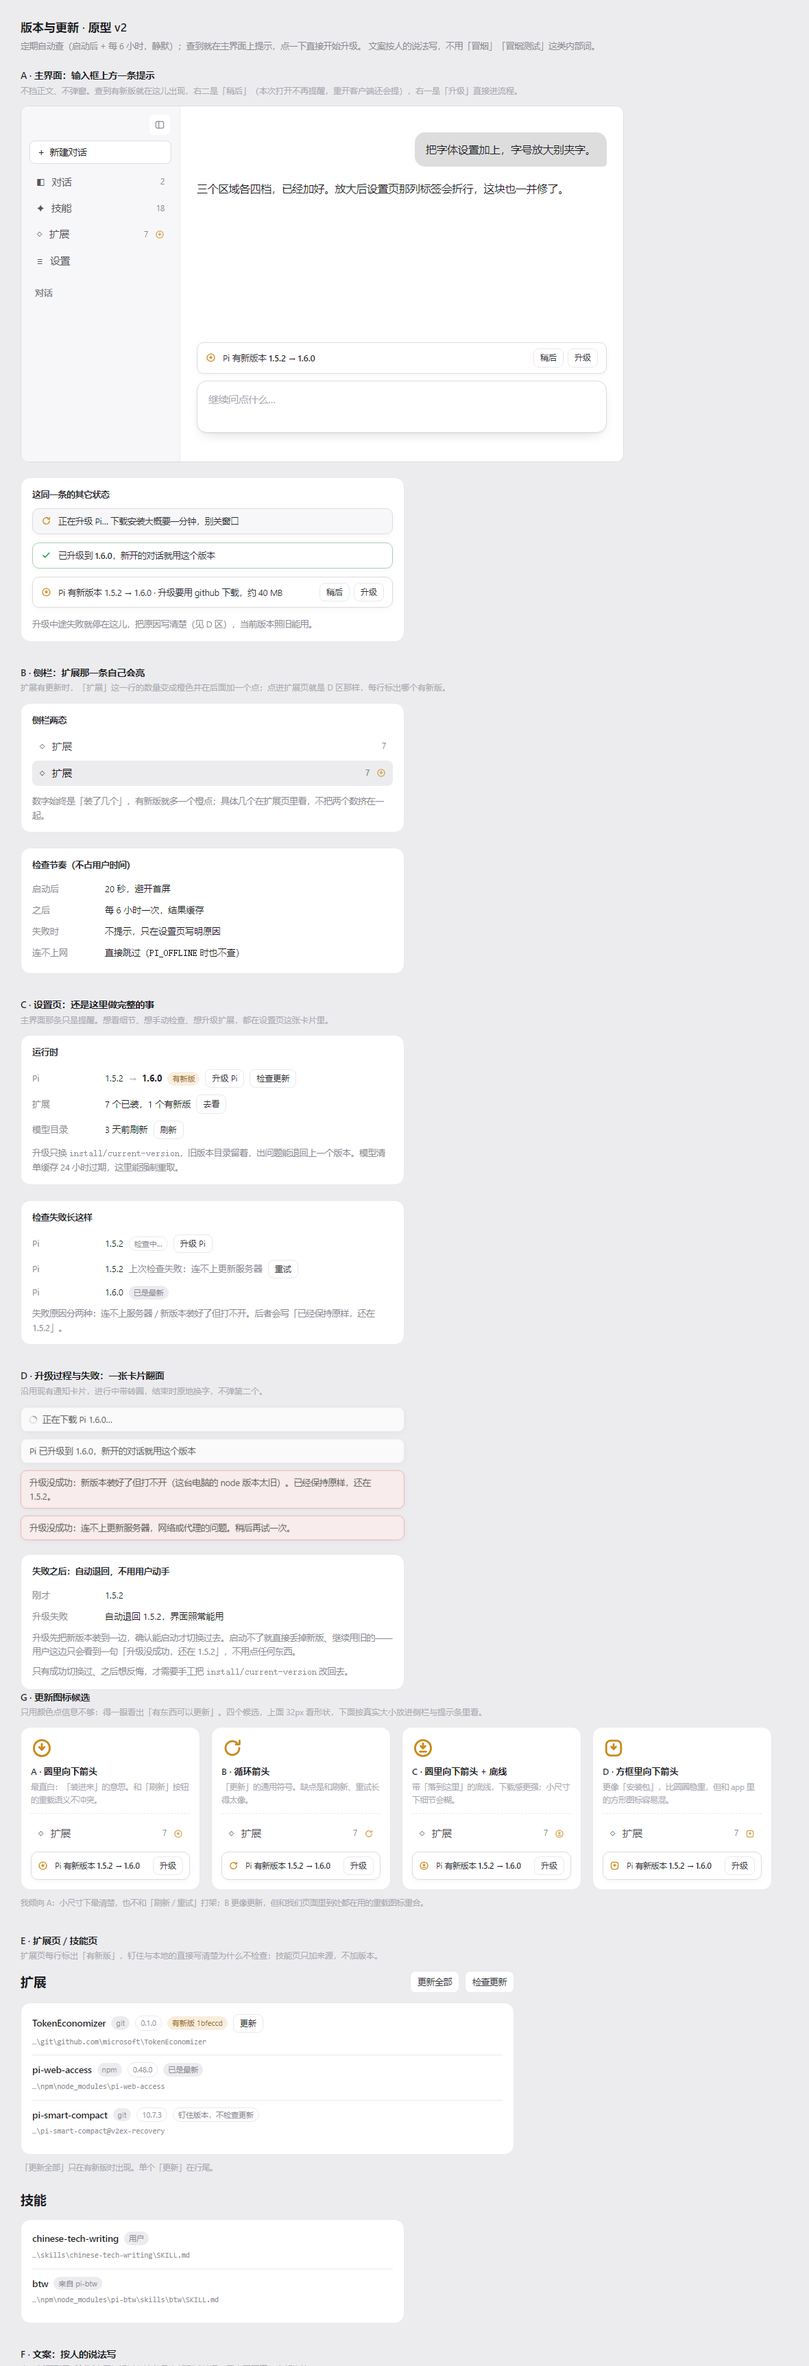
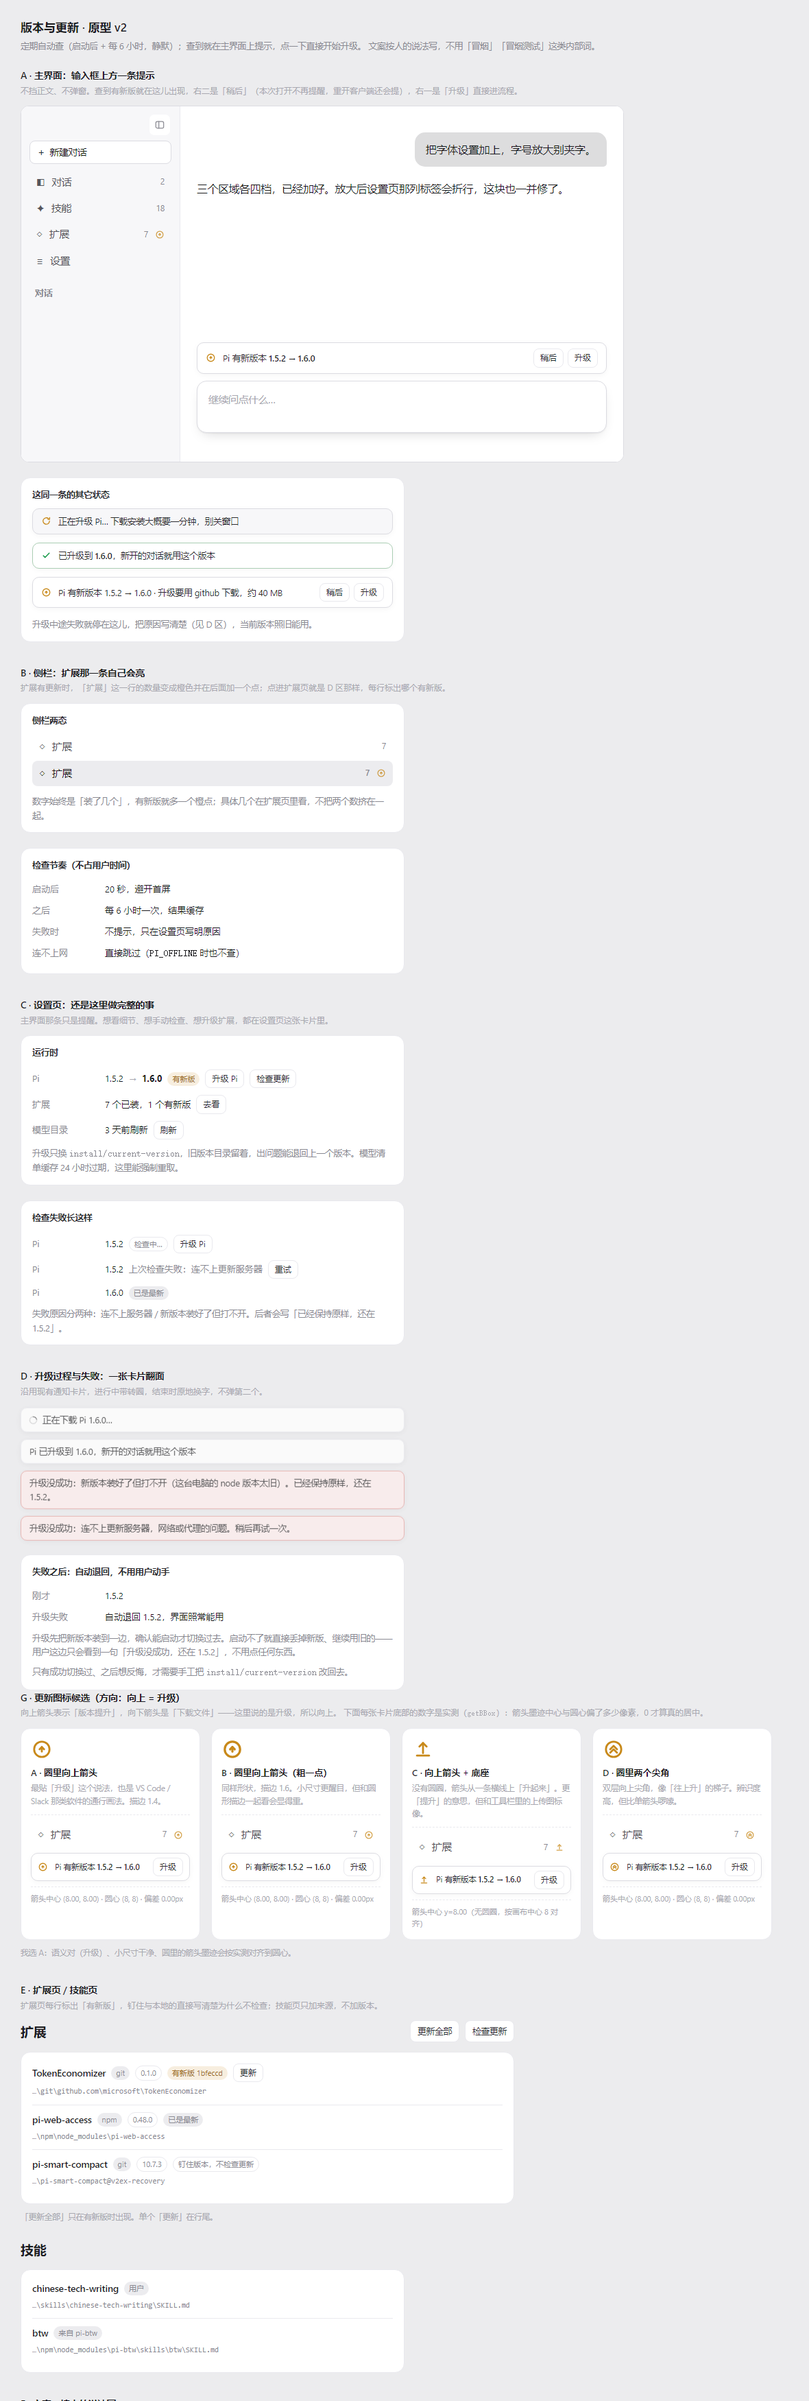
设计：更新图标改向上箭头，并按 getBBox 实测居中

diff --git a/design/updates-proto.html b/design/updates-proto.html
@@ -67,6 +67,8 @@
   .icon-demo { padding-top: 10px; border-top: 1px dashed var(--border); }
   .icon-demo .upd-strip { font-size: calc(11.5px * var(--fs-ui)); padding: 6px 9px; }
 
+  .icon-geo { margin-top: 8px; padding-top: 8px; border-top: 1px dashed var(--border); font-size: calc(11px * var(--fs-ui)); color: var(--text-faint); font-variant-numeric: tabular-nums; }
+
   .copy-table { border-collapse: collapse; font-size: calc(12.5px * var(--fs-ui)); }
   .copy-table th, .copy-table td { border: 1px solid var(--border); padding: 7px 11px; text-align: left; vertical-align: top; }
   .copy-table th { background: var(--panel); font-weight: 600; }
@@ -94,7 +96,7 @@
           <nav class="nav">
             <button class="nav-item"><span class="nav-icon">◧</span>对话<span class="nav-count">2</span></button>
             <button class="nav-item"><span class="nav-icon">✦</span>技能<span class="nav-count">18</span></button>
-            <button class="nav-item"><span class="nav-icon">◇</span>扩展<span class="nav-count">7</span><span class="nav-update"><svg viewBox="0 0 16 16" fill="none" stroke="currentColor" stroke-width="1.4" stroke-linecap="round" stroke-linejoin="round"><circle cx="8" cy="8" r="5.8"/><path d="M8 5.1v4.1"/><path d="M6.1 7.2 8 9.1l1.9-1.9"/></svg></span></button>
+            <button class="nav-item"><span class="nav-icon">◇</span>扩展<span class="nav-count">7</span><span class="nav-update"><svg viewBox="0 0 16 16" fill="none" stroke="currentColor" stroke-width="1.4" stroke-linecap="round" stroke-linejoin="round"><circle cx="8" cy="8" r="5.6"/><path d="M8 9.65V6.35"/><path d="M6.35 8 8 6.35 9.65 8"/></svg></span></button>
             <button class="nav-item"><span class="nav-icon">≡</span>设置</button>
           </nav>
           <div class="threads-head"><span class="threads-title">对话</span></div>
@@ -111,7 +113,7 @@
 
             <div class="composer">
               <div class="upd-strip">
-                <span class="upd-icon"><svg viewBox="0 0 16 16" fill="none" stroke="currentColor" stroke-width="1.4" stroke-linecap="round" stroke-linejoin="round"><circle cx="8" cy="8" r="5.8"/><path d="M8 5.1v4.1"/><path d="M6.1 7.2 8 9.1l1.9-1.9"/></svg></span>
+                <span class="upd-icon"><svg viewBox="0 0 16 16" fill="none" stroke="currentColor" stroke-width="1.4" stroke-linecap="round" stroke-linejoin="round"><circle cx="8" cy="8" r="5.6"/><path d="M8 9.65V6.35"/><path d="M6.35 8 8 6.35 9.65 8"/></svg></span>
                 <span class="upd-text">Pi 有新版本 <strong>1.5.2 → 1.6.0</strong></span>
                 <span class="upd-actions">
                   <button class="ghost-btn small">稍后</button>
@@ -144,7 +146,7 @@
         </div>
 
         <div class="upd-strip" style="margin-bottom:12px">
-          <span class="upd-icon"><svg viewBox="0 0 16 16" fill="none" stroke="currentColor" stroke-width="1.4" stroke-linecap="round" stroke-linejoin="round"><circle cx="8" cy="8" r="5.8"/><path d="M8 5.1v4.1"/><path d="M6.1 7.2 8 9.1l1.9-1.9"/></svg></span>
+          <span class="upd-icon"><svg viewBox="0 0 16 16" fill="none" stroke="currentColor" stroke-width="1.4" stroke-linecap="round" stroke-linejoin="round"><circle cx="8" cy="8" r="5.6"/><path d="M8 9.65V6.35"/><path d="M6.35 8 8 6.35 9.65 8"/></svg></span>
           <span class="upd-text">Pi 有新版本 1.5.2 → 1.6.0 · 升级要用 github 下载，约 40 MB</span>
           <span class="upd-actions"><button class="ghost-btn small">稍后</button><button class="ghost-btn small">升级</button></span>
         </div>
@@ -164,7 +166,7 @@
         <h3>侧栏两态</h3>
         <nav class="nav" style="display:flex;flex-direction:column;gap:2px">
           <button class="nav-item"><span class="nav-icon">◇</span>扩展<span class="nav-count">7</span></button>
-          <button class="nav-item is-active"><span class="nav-icon">◇</span>扩展<span class="nav-count">7</span><span class="nav-update"><svg viewBox="0 0 16 16" fill="none" stroke="currentColor" stroke-width="1.4" stroke-linecap="round" stroke-linejoin="round"><circle cx="8" cy="8" r="5.8"/><path d="M8 5.1v4.1"/><path d="M6.1 7.2 8 9.1l1.9-1.9"/></svg></span></button>
+          <button class="nav-item is-active"><span class="nav-icon">◇</span>扩展<span class="nav-count">7</span><span class="nav-update"><svg viewBox="0 0 16 16" fill="none" stroke="currentColor" stroke-width="1.4" stroke-linecap="round" stroke-linejoin="round"><circle cx="8" cy="8" r="5.6"/><path d="M8 9.65V6.35"/><path d="M6.35 8 8 6.35 9.65 8"/></svg></span></button>
         </nav>
         <p class="page-note" style="margin-top:12px">数字始终是「装了几个」，有新版就多一个橙点；具体几个在扩展页里看，不把两个数挤在一起。</p>
       </div>
@@ -264,63 +266,68 @@
   </div>
 
 <div class="block">
-  <h2>G · 更新图标候选</h2>
-  <p class="why">只用颜色点信息不够：得一眼看出「有东西可以更新」。四个候选，上面 32px 看形状，下面按真实大小放进侧栏与提示条里看。</p>
+  <h2>G · 更新图标候选（方向：向上 = 升级）</h2>
+  <p class="why">向上箭头表示「版本提升」，向下箭头是「下载文件」——这里说的是升级，所以向上。
+  下面每张卡片底部的数字是实测（<code>getBBox</code>）：箭头墨迹中心与圆心偏了多少像素，0 才算真的居中。</p>
   <div class="icon-grid">
-      <div class="icon-card">
-        <div class="icon-big" style="color:#c8891a"><svg viewBox="0 0 16 16" fill="none" stroke="currentColor" stroke-width="1.4" stroke-linecap="round" stroke-linejoin="round"><circle cx="8" cy="8" r="5.8"/><path d="M8 5.1v4.1"/><path d="M6.1 7.2 8 9.1l1.9-1.9"/></svg></div>
-        <div class="icon-name">A · 圈里向下箭头</div>
-        <div class="icon-note">最直白：「装进来」的意思。和「刷新」按钮的重载语义不冲突。</div>
+      <div class="icon-card" data-icon="A">
+        <div class="icon-big" style="color:#c8891a"><svg viewBox="0 0 16 16" fill="none" stroke="currentColor" stroke-width="1.4" stroke-linecap="round" stroke-linejoin="round"><circle cx="8" cy="8" r="5.6"/><path d="M8 9.65V6.35"/><path d="M6.35 8 8 6.35 9.65 8"/></svg></div>
+        <div class="icon-name">A · 圈里向上箭头</div>
+        <div class="icon-note">最贴「升级」这个说法，也是 VS Code / Slack 那类软件的通行画法。描边 1.4。</div>
         <div class="icon-demo">
-          <div class="nav-item" style="width:100%;pointer-events:none"><span class="nav-icon">◇</span>扩展<span class="nav-count">7</span><span class="nav-update"><svg viewBox="0 0 16 16" fill="none" stroke="currentColor" stroke-width="1.4" stroke-linecap="round" stroke-linejoin="round"><circle cx="8" cy="8" r="5.8"/><path d="M8 5.1v4.1"/><path d="M6.1 7.2 8 9.1l1.9-1.9"/></svg></span></div>
+          <div class="nav-item" style="width:100%;pointer-events:none"><span class="nav-icon">◇</span>扩展<span class="nav-count">7</span><span class="nav-update"><svg viewBox="0 0 16 16" fill="none" stroke="currentColor" stroke-width="1.4" stroke-linecap="round" stroke-linejoin="round"><circle cx="8" cy="8" r="5.6"/><path d="M8 9.65V6.35"/><path d="M6.35 8 8 6.35 9.65 8"/></svg></span></div>
           <div class="upd-strip" style="margin:8px 0 0">
-            <span class="upd-icon"><svg viewBox="0 0 16 16" fill="none" stroke="currentColor" stroke-width="1.4" stroke-linecap="round" stroke-linejoin="round"><circle cx="8" cy="8" r="5.8"/><path d="M8 5.1v4.1"/><path d="M6.1 7.2 8 9.1l1.9-1.9"/></svg></span>
+            <span class="upd-icon"><svg viewBox="0 0 16 16" fill="none" stroke="currentColor" stroke-width="1.4" stroke-linecap="round" stroke-linejoin="round"><circle cx="8" cy="8" r="5.6"/><path d="M8 9.65V6.35"/><path d="M6.35 8 8 6.35 9.65 8"/></svg></span>
             <span class="upd-text">Pi 有新版本 <strong>1.5.2 → 1.6.0</strong></span>
             <span class="upd-actions"><button class="ghost-btn small">升级</button></span>
           </div>
         </div>
+        <div class="icon-geo"></div>
       </div>
-      <div class="icon-card">
-        <div class="icon-big" style="color:#c8891a"><svg viewBox="0 0 16 16" fill="none" stroke="currentColor" stroke-width="1.4" stroke-linecap="round" stroke-linejoin="round"><path d="M13 8a5 5 0 1 1-1.6-3.7"/><path d="M13.2 2.6v2.7h-2.7"/></svg></div>
-        <div class="icon-name">B · 循环箭头</div>
-        <div class="icon-note">「更新」的通用符号。缺点是和刷新、重试长得太像。</div>
+      <div class="icon-card" data-icon="B">
+        <div class="icon-big" style="color:#c8891a"><svg viewBox="0 0 16 16" fill="none" stroke="currentColor" stroke-width="1.6" stroke-linecap="round" stroke-linejoin="round"><circle cx="8" cy="8" r="5.6"/><path d="M8 9.65V6.35"/><path d="M6.35 8 8 6.35 9.65 8"/></svg></div>
+        <div class="icon-name">B · 圈里向上箭头（粗一点）</div>
+        <div class="icon-note">同样形状，描边 1.6。小尺寸更醒目，但和圆形描边一起看会显得重。</div>
         <div class="icon-demo">
-          <div class="nav-item" style="width:100%;pointer-events:none"><span class="nav-icon">◇</span>扩展<span class="nav-count">7</span><span class="nav-update"><svg viewBox="0 0 16 16" fill="none" stroke="currentColor" stroke-width="1.4" stroke-linecap="round" stroke-linejoin="round"><path d="M13 8a5 5 0 1 1-1.6-3.7"/><path d="M13.2 2.6v2.7h-2.7"/></svg></span></div>
+          <div class="nav-item" style="width:100%;pointer-events:none"><span class="nav-icon">◇</span>扩展<span class="nav-count">7</span><span class="nav-update"><svg viewBox="0 0 16 16" fill="none" stroke="currentColor" stroke-width="1.6" stroke-linecap="round" stroke-linejoin="round"><circle cx="8" cy="8" r="5.6"/><path d="M8 9.65V6.35"/><path d="M6.35 8 8 6.35 9.65 8"/></svg></span></div>
           <div class="upd-strip" style="margin:8px 0 0">
-            <span class="upd-icon"><svg viewBox="0 0 16 16" fill="none" stroke="currentColor" stroke-width="1.4" stroke-linecap="round" stroke-linejoin="round"><path d="M13 8a5 5 0 1 1-1.6-3.7"/><path d="M13.2 2.6v2.7h-2.7"/></svg></span>
+            <span class="upd-icon"><svg viewBox="0 0 16 16" fill="none" stroke="currentColor" stroke-width="1.6" stroke-linecap="round" stroke-linejoin="round"><circle cx="8" cy="8" r="5.6"/><path d="M8 9.65V6.35"/><path d="M6.35 8 8 6.35 9.65 8"/></svg></span>
             <span class="upd-text">Pi 有新版本 <strong>1.5.2 → 1.6.0</strong></span>
             <span class="upd-actions"><button class="ghost-btn small">升级</button></span>
           </div>
         </div>
+        <div class="icon-geo"></div>
       </div>
-      <div class="icon-card">
-        <div class="icon-big" style="color:#c8891a"><svg viewBox="0 0 16 16" fill="none" stroke="currentColor" stroke-width="1.4" stroke-linecap="round" stroke-linejoin="round"><circle cx="8" cy="8" r="5.8"/><path d="M8 4.6v3.4"/><path d="M6.3 6.5 8 8.2l1.7-1.7"/><path d="M5.7 10.6h4.6"/></svg></div>
-        <div class="icon-name">C · 圈里向下箭头 + 底线</div>
-        <div class="icon-note">带「落到这里」的底线，下载感更强；小尺寸下细节会糊。</div>
+      <div class="icon-card" data-icon="C">
+        <div class="icon-big" style="color:#c8891a"><svg viewBox="0 0 16 16" fill="none" stroke="currentColor" stroke-width="1.4" stroke-linecap="round" stroke-linejoin="round"><path d="M8 10.8V3.4"/><path d="M5.4 6 8 3.4l2.6 2.6"/><path d="M3.6 12.6h8.8"/></svg></div>
+        <div class="icon-name">C · 向上箭头 + 底座</div>
+        <div class="icon-note">没有圆圈，箭头从一条横线上「升起来」。更「提升」的意思，但和工具栏里的上传图标像。</div>
         <div class="icon-demo">
-          <div class="nav-item" style="width:100%;pointer-events:none"><span class="nav-icon">◇</span>扩展<span class="nav-count">7</span><span class="nav-update"><svg viewBox="0 0 16 16" fill="none" stroke="currentColor" stroke-width="1.4" stroke-linecap="round" stroke-linejoin="round"><circle cx="8" cy="8" r="5.8"/><path d="M8 4.6v3.4"/><path d="M6.3 6.5 8 8.2l1.7-1.7"/><path d="M5.7 10.6h4.6"/></svg></span></div>
+          <div class="nav-item" style="width:100%;pointer-events:none"><span class="nav-icon">◇</span>扩展<span class="nav-count">7</span><span class="nav-update"><svg viewBox="0 0 16 16" fill="none" stroke="currentColor" stroke-width="1.4" stroke-linecap="round" stroke-linejoin="round"><path d="M8 10.8V3.4"/><path d="M5.4 6 8 3.4l2.6 2.6"/><path d="M3.6 12.6h8.8"/></svg></span></div>
           <div class="upd-strip" style="margin:8px 0 0">
-            <span class="upd-icon"><svg viewBox="0 0 16 16" fill="none" stroke="currentColor" stroke-width="1.4" stroke-linecap="round" stroke-linejoin="round"><circle cx="8" cy="8" r="5.8"/><path d="M8 4.6v3.4"/><path d="M6.3 6.5 8 8.2l1.7-1.7"/><path d="M5.7 10.6h4.6"/></svg></span>
+            <span class="upd-icon"><svg viewBox="0 0 16 16" fill="none" stroke="currentColor" stroke-width="1.4" stroke-linecap="round" stroke-linejoin="round"><path d="M8 10.8V3.4"/><path d="M5.4 6 8 3.4l2.6 2.6"/><path d="M3.6 12.6h8.8"/></svg></span>
             <span class="upd-text">Pi 有新版本 <strong>1.5.2 → 1.6.0</strong></span>
             <span class="upd-actions"><button class="ghost-btn small">升级</button></span>
           </div>
         </div>
+        <div class="icon-geo"></div>
       </div>
-      <div class="icon-card">
-        <div class="icon-big" style="color:#c8891a"><svg viewBox="0 0 16 16" fill="none" stroke="currentColor" stroke-width="1.4" stroke-linecap="round" stroke-linejoin="round"><rect x="2.6" y="2.6" width="10.8" height="10.8" rx="3.2"/><path d="M8 5.2v3.5"/><path d="M6.3 7 8 8.7 9.7 7"/></svg></div>
-        <div class="icon-name">D · 方框里向下箭头</div>
-        <div class="icon-note">更像「安装包」，比圆圈稳重，但和 app 里的方形图标容易混。</div>
+      <div class="icon-card" data-icon="D">
+        <div class="icon-big" style="color:#c8891a"><svg viewBox="0 0 16 16" fill="none" stroke="currentColor" stroke-width="1.4" stroke-linecap="round" stroke-linejoin="round"><circle cx="8" cy="8" r="5.6"/><path d="M5.5 8 8 5.5 10.5 8"/><path d="M5.5 10.5 8 8 10.5 10.5"/></svg></div>
+        <div class="icon-name">D · 圈里两个尖角</div>
+        <div class="icon-note">双层向上尖角，像「往上升」的梯子。辨识度高，但比单箭头啰嗦。</div>
         <div class="icon-demo">
-          <div class="nav-item" style="width:100%;pointer-events:none"><span class="nav-icon">◇</span>扩展<span class="nav-count">7</span><span class="nav-update"><svg viewBox="0 0 16 16" fill="none" stroke="currentColor" stroke-width="1.4" stroke-linecap="round" stroke-linejoin="round"><rect x="2.6" y="2.6" width="10.8" height="10.8" rx="3.2"/><path d="M8 5.2v3.5"/><path d="M6.3 7 8 8.7 9.7 7"/></svg></span></div>
+          <div class="nav-item" style="width:100%;pointer-events:none"><span class="nav-icon">◇</span>扩展<span class="nav-count">7</span><span class="nav-update"><svg viewBox="0 0 16 16" fill="none" stroke="currentColor" stroke-width="1.4" stroke-linecap="round" stroke-linejoin="round"><circle cx="8" cy="8" r="5.6"/><path d="M5.5 8 8 5.5 10.5 8"/><path d="M5.5 10.5 8 8 10.5 10.5"/></svg></span></div>
           <div class="upd-strip" style="margin:8px 0 0">
-            <span class="upd-icon"><svg viewBox="0 0 16 16" fill="none" stroke="currentColor" stroke-width="1.4" stroke-linecap="round" stroke-linejoin="round"><rect x="2.6" y="2.6" width="10.8" height="10.8" rx="3.2"/><path d="M8 5.2v3.5"/><path d="M6.3 7 8 8.7 9.7 7"/></svg></span>
+            <span class="upd-icon"><svg viewBox="0 0 16 16" fill="none" stroke="currentColor" stroke-width="1.4" stroke-linecap="round" stroke-linejoin="round"><circle cx="8" cy="8" r="5.6"/><path d="M5.5 8 8 5.5 10.5 8"/><path d="M5.5 10.5 8 8 10.5 10.5"/></svg></span>
             <span class="upd-text">Pi 有新版本 <strong>1.5.2 → 1.6.0</strong></span>
             <span class="upd-actions"><button class="ghost-btn small">升级</button></span>
           </div>
         </div>
+        <div class="icon-geo"></div>
       </div>
   </div>
-  <p class="mini-note">我倾向 A：小尺寸下最清楚，也不和「刷新 / 重试」打架；B 更像更新，但和我们页面里到处都在用的重载图标重合。</p>
+  <p class="mini-note">我选 A：语义对（升级）、小尺寸干净、圆里的箭头墨迹会按实测对齐到圆心。</p>
 </div>
 
 <div class="block">
@@ -430,6 +437,30 @@
     if (grid) grid.style.transform = 'scale(1.6)';
     if (grid) grid.style.transformOrigin = 'top left';
   }
+  // 每张图标候选卡片底部写一行几何核对：箭头墨迹中心 vs 圆心。
+  document.querySelectorAll('.icon-card').forEach((card) => {
+    const svg = card.querySelector('.icon-big svg');
+    const circle = svg.querySelector('circle');
+    const paths = [...svg.querySelectorAll('path')];
+    const out = card.querySelector('.icon-geo');
+    if (!paths.length || !out) return;
+    let box = paths[0].getBBox();
+    for (const path of paths.slice(1)) {
+      const other = path.getBBox();
+      const x = Math.min(box.x, other.x);
+      const y = Math.min(box.y, other.y);
+      const right = Math.max(box.x + box.width, other.x + other.width);
+      const bottom = Math.max(box.y + box.height, other.y + other.height);
+      box = { x, y, width: right - x, height: bottom - y };
+    }
+    const inkX = box.x + box.width / 2;
+    const inkY = box.y + box.height / 2;
+    const text = circle
+      ? `箭头中心 (${inkX.toFixed(2)}, ${inkY.toFixed(2)}) · 圆心 (8, 8) · 偏差 ${Math.hypot(inkX - 8, inkY - 8).toFixed(2)}px`
+      : `箭头中心 y=${inkY.toFixed(2)}（无圆圈，按画布中心 8 对齐）`;
+    out.textContent = text;
+  });
+
   const size = query.get('fs');
   if (size) {
     const map = { s: 0.9, m: 1, l: 1.12, xl: 1.24 };

diff --git a/docs/research/updates-2026-11.md b/docs/research/updates-2026-11.md
@@ -290,16 +290,33 @@ Pi          1.5.2 → 1.6.0  [有新版]  [升级 Pi] [检查更新]
 
 ### 6.6 更新图标
 
-只用颜色点不够：圆点只说「有变化」，看不出是「可以更新」。四个候选（`?only=icons` 可放大看）：
+只用颜色点不够：圆点只说「有变化」，看不出是「可以更新」。而**箭头方向有语义**：
+
+- **向上 = 升级**（版本提升），VS Code、Slack 这类软件的更新提示都用向上箭头；
+- 向下 = 下载（把包拉到本地）。
+
+我们说的是「有新版可以升」，所以取**向上**。四个候选（原型里 `?only=icons` 可放大看）：
 
 | 候选 | 形状 | 评价 |
 | --- | --- | --- |
-| **A** | 圈里向下箭头 | 最直白，「装进来」的意思；小尺寸清楚，不和「刷新 / 重试」打架 —— **采用这个** |
-| B | 循环箭头 | 「更新」的通用符号，但和我们页面里到处在用的重载图标重合 |
-| C | 圈里向下箭头 + 底线 | 下载感更强，小尺寸下细节会糊 |
-| D | 方框里向下箭头 | 更像「安装包」，但和 app 里的方形图标容易混 |
+| **A** | 圈里向上箭头，描边 1.4 | 语义对、小尺寸干净，**采用这个** |
+| B | 同上，描边 1.6 | 更醒目，但和圆形描边一起看偏重 |
+| C | 向上箭头 + 底座横线 | 「升起来」的意思更强，但和工具栏的上传图标像 |
+| D | 圈里两个尖角 | 辨识度高，比单箭头啰嗦 |
 
-同一枚图标用在三处：主界面提示条左侧（15px，橙色）、侧栏「扩展」行末（14px）、设置页运行时卡片的状态位。
+**居中是量出来的，不是目测的。** 每个候选的 `path` 用 `getBBox()` 求墨迹外框中心，与圆心 (8, 8) 比：
+
+```text
+A  箭头中心 (8.00, 8.00) · 偏差 0.00px
+B  箭头中心 (8.00, 8.00) · 偏差 0.00px
+C  箭头中心 y=8.00（无圆圈，按画布中心对齐）
+D  箭头中心 (8.00, 8.00) · 偏差 0.00px
+```
+
+上一版目测画的向上箭头是 (8.00, 7.95)、向下箭头那次差得更多——肉眼看不出来，量一次就对齐了。
+以后新加图标都照这个办法核一遍，别凭眼睛。
+
+同一枚图标用在三处：主界面提示条左侧（15px，橙）、侧栏「扩展」行末（14px）、设置页状态位。
 
 ### 6.7 仍然待定
 

diff --git a/docs/STATUS.md b/docs/STATUS.md
@@ -22,6 +22,19 @@
 - 已知限制（写进发布说明）：Seven Station Core 目前只放 Windows 包，之后会出 Linux 版；局域网限本地子网、没做 TLS；
   手机窄屏未调；数据库没有版本化迁移，只有「查列再补」这一处临时逻辑。
 
+## STATUS-078：更新图标改成向上箭头，并按墨迹实测居中（原型 v4，2026-11-22）
+
+用户指出两点：方向反了（有新版 = 升级 = **向上**向上箭头；向下箭头是「下载文件」），以及上一个图标
+箭头没在圆圈正中。
+
+- 四个候选全换成向上语义：A 圈里向上箭头（描边 1.4）、B 同形粗一点、C 向上箭头 + 底座、D 圈里两个尖角。
+  **选 A**：语义对、小尺寸干净。
+- 居中不再靠目测：原型里对每个候选的 `path` 跑 `getBBox()`，算墨迹外框中心与圆心 (8, 8) 的距离，
+  四张卡片底部直接打印偏差。改完后 A/B/D 都是 **0.00px**（上一版 A 是 7.95，偏 0.05；向下那版偏得更多）。
+- 「图标按墨迹 bbox 对齐容器中心」写进了 AGENTS 的界面约定。
+
+截图 `design/shots/updates-proto-v2-{light,dark,icons}.png`，说明在 `docs/research/updates-2026-11.md` 6.6 节。
+
 ## STATUS-077：更新图标 + 失败自动退回 + 「稍后」语义（原型 v3，2026-11-22）
 
 用户定下来的三条，原型与文档同步改了：
